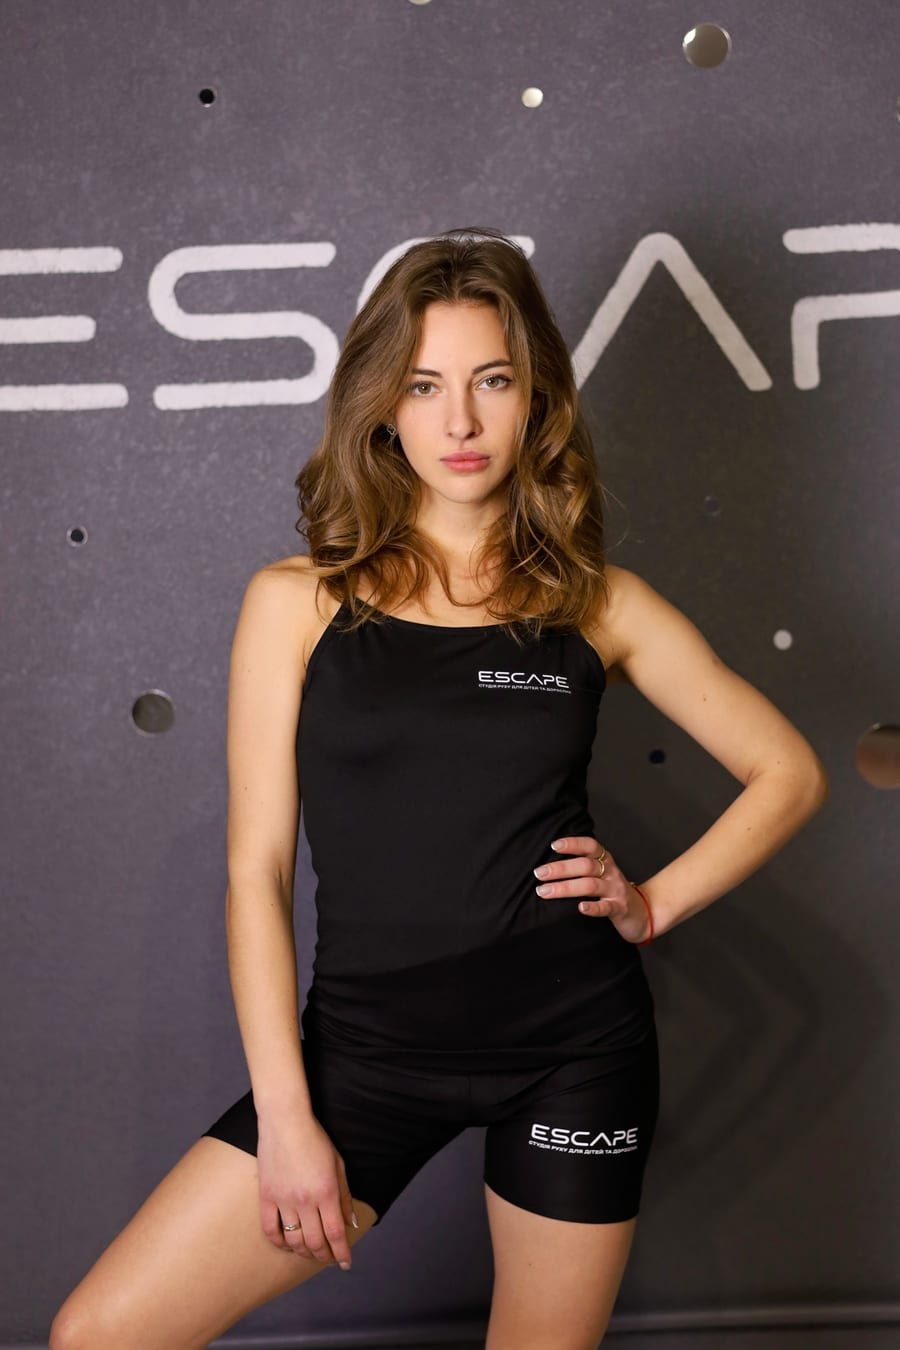
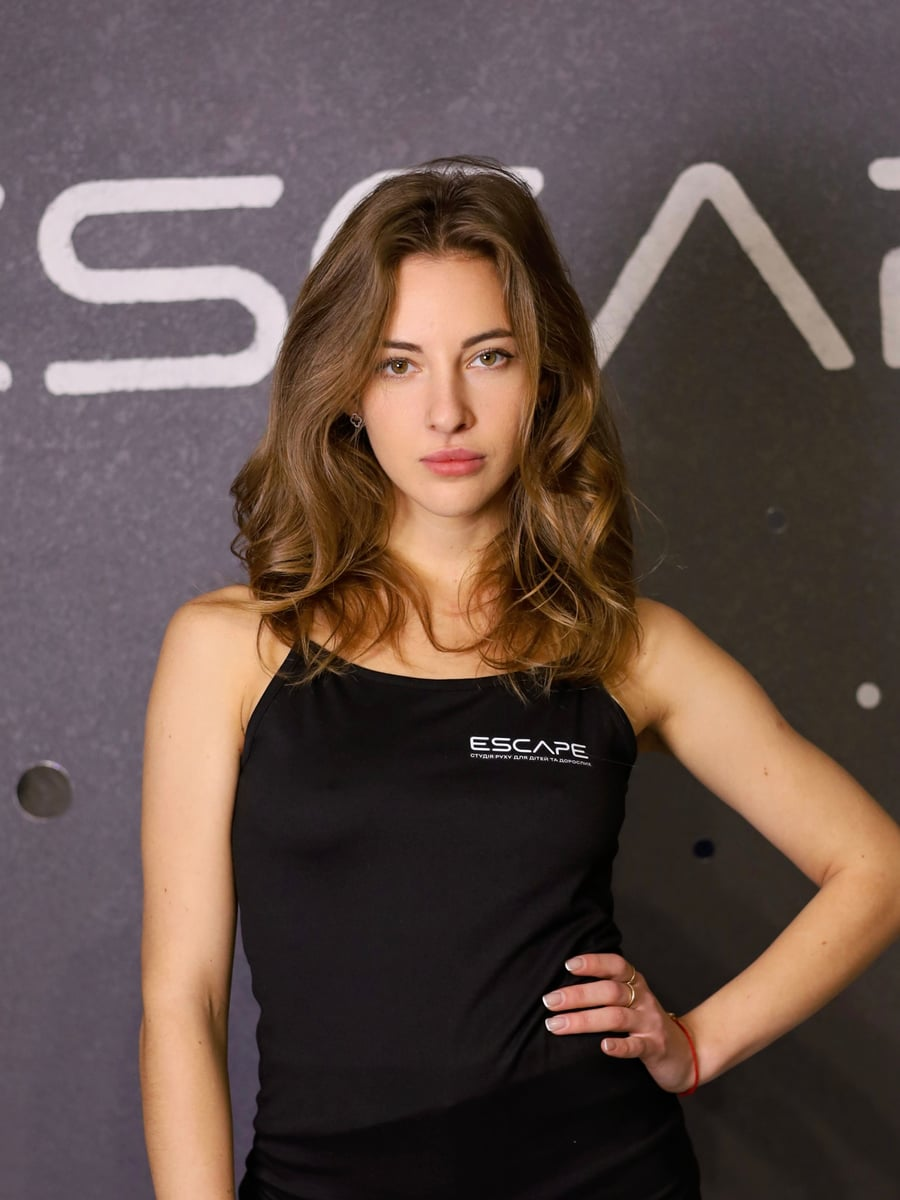
Align trainer photos by face height and size

diff --git a/CLAUDE.md b/CLAUDE.md
@@ -41,7 +41,7 @@ Motion is CSS-only (`reveal` keyframes in `global.css`): hero fade-in plus scrol
 ## Conventions & gotchas
 
 - **Domain.** Site is served from the custom domain `https://escape.in.ua` (`astro.config.mjs` `site`, `public/CNAME`; the domain itself is set in repo Settings → Pages). No `base` path, but still build internal URLs from `import.meta.env.BASE_URL` rather than hardcoding `/`.
-- **Photos are per theme.** `Photo.astro` takes a slot `name` and renders `src/assets/photos/<theme>/<name>.*` for every theme that has it (via `import.meta.glob` in `src/data/photos.ts`); CSS shows only the current theme's image, otherwise the `.photo` gradient placeholder. Slot names: `hero`, `schedule`, `about`, `cta`, plus `photo` fields in `content.ts` (directions, trainers). To replace a photo, drop a file with the same name — no code changes. Images go through `astro:assets` (WebP). `hero` (client banner), trainer photos and all direction photos except `stretching` are real shots (resized to 900px wide from the client's originals, which are not committed; EXIF rotation baked in); `stretching`, `schedule`, `about`, `cta` are still AI mockup images cut from `docs/design-*-images.png` (low-res) — replace with real photoshoot shots.
+- **Photos are per theme.** `Photo.astro` takes a slot `name` and renders `src/assets/photos/<theme>/<name>.*` for every theme that has it (via `import.meta.glob` in `src/data/photos.ts`); CSS shows only the current theme's image, otherwise the `.photo` gradient placeholder. Slot names: `hero`, `schedule`, `about`, `cta`, plus `photo` fields in `content.ts` (directions, trainers). To replace a photo, drop a file with the same name — no code changes. Images go through `astro:assets` (WebP). `hero` (client banner), trainer photos and all direction photos except `stretching` are real shots (resized to 900px wide from the client's originals, which are not committed; EXIF rotation baked in; trainer photos are cropped to 3:4 from `docs/task1/` originals so faces sit at the same height and scale); `stretching`, `schedule`, `about`, `cta` are still AI mockup images cut from `docs/design-*-images.png` (low-res) — replace with real photoshoot shots.
 - **Direction icons.** `Directions.astro` shows the client's drawn icon `src/assets/icons/<photo>.png` (128px) when it exists, else the SVG `icon` from `content.ts` (currently only «Стретчинг»).
 - Exactly one `<h1>` (in `Hero.astro`); every section has an `id` (used by header nav) and `aria-labelledby` pointing to its heading.
 - Ukrainian grammar in templates: locality has a locative form `studio.address.localityIn` («у Пущі-Водиці») — use it after «у/в».
